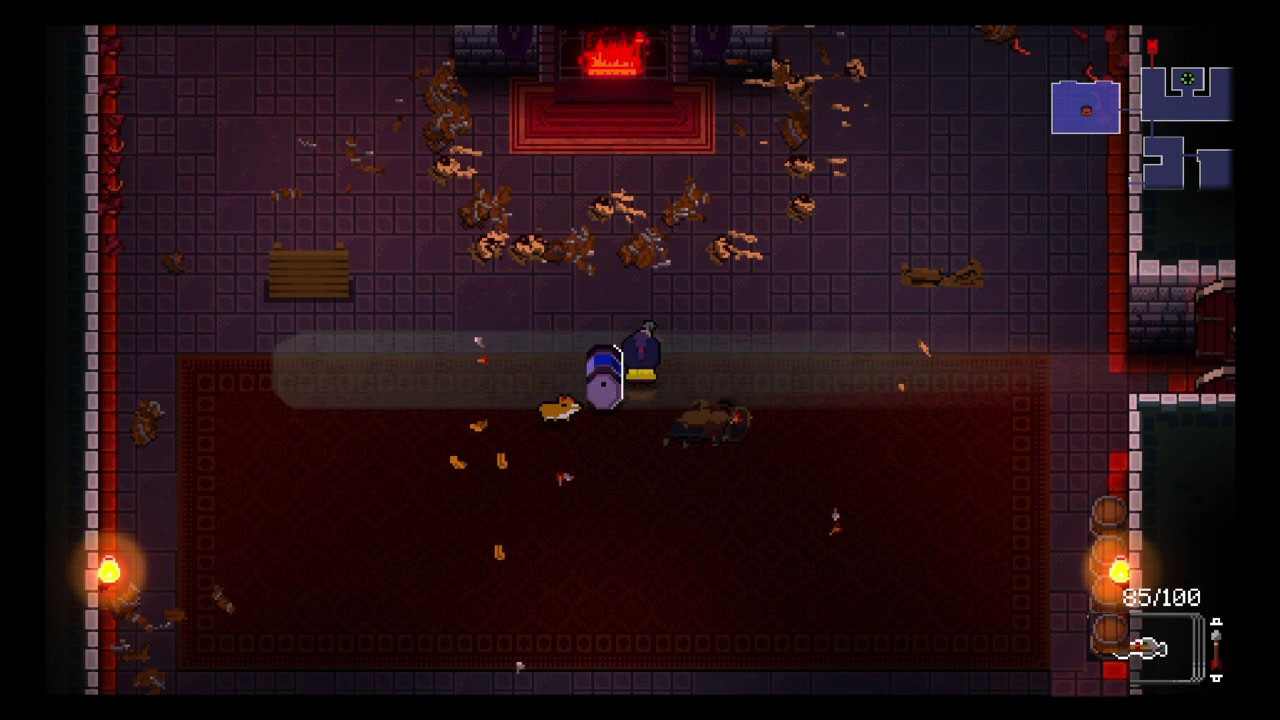
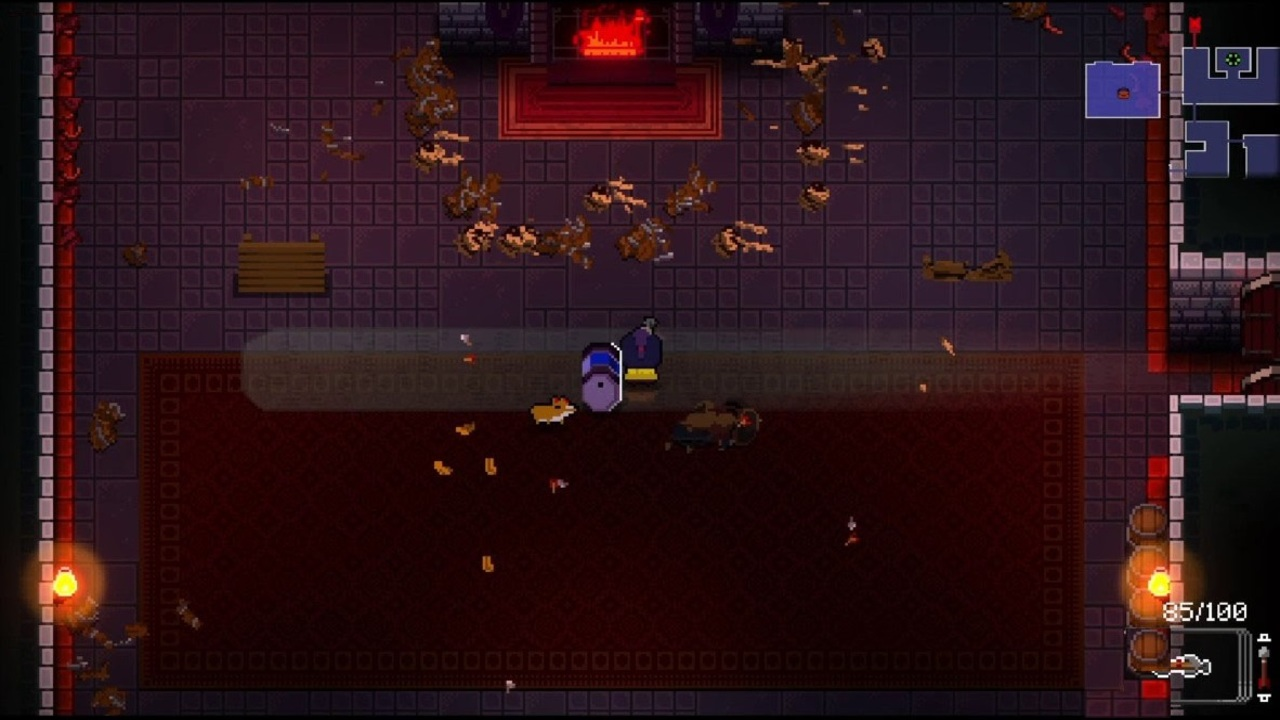
fonts and highlighting fix

diff --git a/game.js b/game.js
@@ -24,6 +24,7 @@ var char = {
   posY: (canvas.height / 2)
 };
 
+
 document.addEventListener("keydown", keyDownHandler, false);
 document.addEventListener("keyup", keyUpHandler, false);
 canvas.addEventListener("click", drawBullet);
@@ -73,13 +74,13 @@ function shootBullet() {
 
 // Checking which keys are not being pressed
 function keyUpHandler(event) {
-  if (event.key === "d") {
+  if (event.key === "d" || event.key === "D") {
     rightPressed = false;
-  } else if (event.key === "a") {
+  } else if (event.key === "a" || event.key === "A") {
     leftPressed = false;
-  } else if (event.key === "w") {
+  } else if (event.key === "w" || event.key === "W") {
     upPressed = false;
-  } else if (event.key === "s") {
+  } else if (event.key === "s" || event.key === "S") {
     downPressed = false;
   } else if (event.key === "Escape") {
     escPressed = false;
@@ -88,13 +89,13 @@ function keyUpHandler(event) {
 
 // Checking which keys are being pressed
 function keyDownHandler(event) {
-  if (event.key === "d") {
+  if (event.key === "d" || event.key === "D") {
     rightPressed = true;
-  } else if (event.key === "a") {
+  } else if (event.key === "a" || event.key === "A") {
     leftPressed = true;
-  } else if (event.key === "w") {
+  } else if (event.key === "w" || event.key === "W") {
     upPressed = true;
-  } else if (event.key === "s") {
+  } else if (event.key === "s" || event.key === "S") {
     downPressed = true;
   } else if (event.key === "Escape") {
     escPressed = true;
@@ -120,35 +121,45 @@ function charHealth() {
   ctx.fillStyle = "red";
   ctx.fill();
   ctx.closePath();
-  ctx.font = "10px Arial";
+  ctx.font = "9px 'Press Start 2P'";
   ctx.fillStyle = "white";
-  ctx.fillText(charName, char.posX - 40, char.posY - 58);
+  ctx.fillText(charName, char.posX - 40, char.posY - 55);
   if (charHp <= 0) {
-    cancelAnimationFrame(animID);
+
     alert("You suck at this game. Try Again!")
     document.location.reload();
+    cancelAnimationFrame();
   }
 }
 
 
 function bossHealth() {
   ctx.beginPath();
-  ctx.rect(40, 60, bossHp / 3, 30);
-  ctx.fillStyle = "red";
+  // ctx.rect(270, 660, 680, 40);
+  ctx.rect(270, 60, 680, 40);
+  ctx.fillStyle = "#540551";
   ctx.fill();
   ctx.closePath();
-  ctx.font = "40px Arial";
+  ctx.beginPath();
+  // ctx.rect(276, 665, bossHp / 3, 30);
+  ctx.rect(276, 65, bossHp / 3, 30);
+  ctx.fillStyle = "#ba1b3b";
+  ctx.fill();
+  ctx.closePath();
+  ctx.font = "30px 'Press Start 2P'";
   ctx.fillStyle = "white";
-  ctx.fillText("Wall of Flesh", 40, 60);
+  // ctx.fillText("Wall of Flesh", 440, 655);
+  ctx.fillText("Wall of Flesh", 440, 55);
   if (bossHp > 1000) {
     bossShooting();
   } else if (bossHp <= 1000) {
     bossBulletSpray();
   }
   if (bossHp == 0) {
-    cancelAnimationFrame(animID);
-    alert("Congratulations! You beat a stationary boss! What do you want from me, a cookie?");
+    alert("Congratulations! You beat a stationary boss! What do you want from me, a cookie? Play again and beat it faster this time.");
     document.location.reload();
+    cancelAnimationFrame();
+
   }
 }
 
@@ -290,9 +301,9 @@ function pauseGame() {
     ctx.fillStyle = "rgba(0,0,0,0.75)";
     ctx.fill();
     ctx.closePath();
-    ctx.font = "40px Arial";
+    ctx.font = "40px 'Press Start 2P'";
     ctx.fillStyle = "white";
-    ctx.fillText("GAME PAUSED", canvas.width / 2.5, canvas.height / 2);
+    ctx.fillText("GAME PAUSED", canvas.width / 3, canvas.height / 2);
   } else if (gamePaused) {
     gamePaused = false;
     canvas.addEventListener("click", drawBullet); //add back the ability to click to spawn bullets
@@ -304,9 +315,9 @@ function playGame() {
   ctx.clearRect(0, 0, canvas.width, canvas.height);
   playerMovement();
   charHealth();
-  bossHealth();
   drawGun();
   shootBullet();
+  bossHealth();
   drawBoss();
   animID = requestAnimationFrame(playGame);
 }

diff --git a/intro.html b/intro.html
@@ -19,7 +19,7 @@
     <section id="introdiv">
       <h1>About the Game</h1>
 
-      <p>Gungeon 3000 is a spinoff of the critically acclaimed game, Enter the Gungeon. This game is a frenzy filled with bullets, ammunition, monsters. In the game, the player faces a boss called the Wall of Flesh in which the player must find a
+      <p>Gungeon 3000 is a spinoff of the critically acclaimed game, <a href="http://dodgeroll.com/gungeon/"><font color="FF00CC">Enter the Gungeon</font></a>. This game is a frenzy filled with bullets, ammunition, monsters. In the game, the player faces a boss called the Wall of Flesh in which the player must find a
         way to beat it with the gun provided and any strategies. The boss will do different things at different health points. Additionally, the player must aim at the boss's weak spots in order to do damage. The boss is immune to bullets in every
         area except for its weak points. Pausing is available to be used by pressing the ESCAPE key in case the player needs to handle something else in the middle of the game.
       </p>

diff --git a/style.css b/style.css
@@ -1,3 +1,5 @@
+@import url('https://fonts.googleapis.com/css?family=Press+Start+2P&display=swap');
+
 
 body {
   background-image: url(images/pagebackground.jpg);
@@ -82,4 +84,12 @@ a.button4:hover {
   color: white;
   background-color: #db5d23;
   padding-top: 20px;
+}
+
+#footer::-moz-selection {
+background: transparent;
+}
+
+#footer::selection {
+background: transparent;
 }
